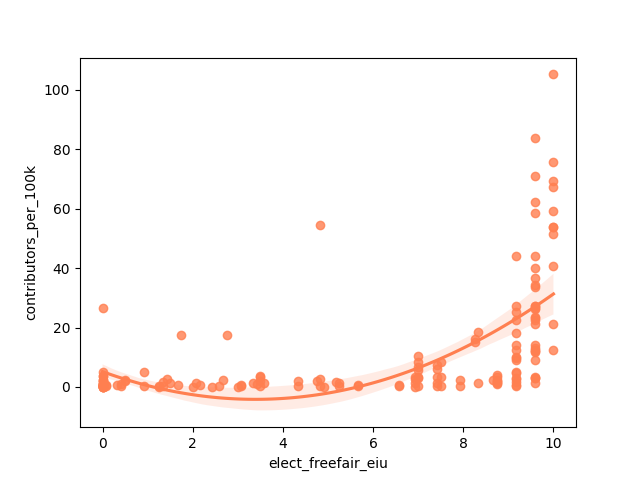
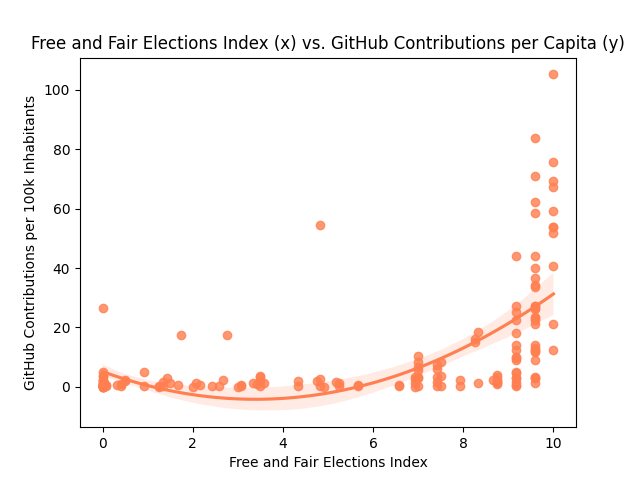
better plots, better pizza

Changed region(s): [[0.0312, 0.0625, 0.9688, 0.125], [0.0312, 0.1875, 0.0625, 0.8125], [0.3438, 0.9375, 0.6562, 1.0]]

diff --git a/src/data_calc.py b/src/data_calc.py
@@ -15,6 +15,9 @@ def mattplot( path ) :
            y='contributors_per_100k',
            x='democracy_eiu',
            color='cornflowerblue')
+    plt.ylabel('GitHub Contributions per 100k Inhabitants')
+    plt.xlabel('Overall Democracy Index')
+    plt.title('Democracy Index (x) vs. GitHub Contributions per Capita (y)')
     plt.savefig('../pngs/democracy_eiu')
 
     plt.figure()
@@ -23,6 +26,9 @@ def mattplot( path ) :
            y='contributors_per_100k',
            x='pol_part_eiu',
            color='mediumpurple')
+    plt.ylabel('GitHub Contributions per 100k Inhabitants')
+    plt.xlabel('Political Participation Index')
+    plt.title('Political Partitipation Index (x) vs. GitHub Contributions per Capita (y)')
     plt.savefig('../pngs/pol_part_eiu')
 
     plt.figure()
@@ -31,6 +37,9 @@ def mattplot( path ) :
            y='contributors_per_100k',
            x='dem_culture_eiu',
            color='palevioletred')
+    plt.ylabel('GitHub Contributions per 100k Inhabitants')
+    plt.xlabel('Democratic Culture Index')
+    plt.title('Democratic Culture Index (x) vs. GitHub Contributions per Capita (y)')
     plt.savefig('../pngs/dem_culture_eiu',)
 
     plt.figure()
@@ -39,6 +48,9 @@ def mattplot( path ) :
            y='contributors_per_100k',
            x='elect_freefair_eiu',
            color='coral')
+    plt.ylabel('GitHub Contributions per 100k Inhabitants')
+    plt.xlabel('Free and Fair Elections Index')
+    plt.title('Free and Fair Elections Index (x) vs. GitHub Contributions per Capita (y)')
     plt.savefig('../pngs/elect_freefair_eiu')
 
     plt.show()

diff --git a/src/test_regress.py b/src/test_regress.py
@@ -2,7 +2,7 @@ from sklearn.utils import shuffle
 import pandas as pd
 from sklearn.linear_model import LinearRegression
 
-def regress( path, n ) :
+def regress_performance( path, n ) :
 
     labels = ['democracy_eiu', 'elect_freefair_eiu', 'pol_part_eiu', 'dem_culture_eiu']
 
@@ -12,13 +12,17 @@ def regress( path, n ) :
             'dem_culture_eiu' : []
     }
 
+    df_orig = pd.read_parquet(path)
+
     for i in range(n) :
         #print("try #" + str(i))
-        df = pd.read_parquet( path )
-        df = shuffle( df )
+
+        df = shuffle( df_orig )
 
         df_train = df.sample( frac = 0.5 ).dropna()
         df_test = df.drop( df_train.index ).dropna()
+
+        print("\n[iteration #" + str(i) + "]")
 
         for t in labels :
             # train
@@ -36,9 +40,11 @@ def regress( path, n ) :
                   ":" +
                   str( model.score( x_test, y_test ) ) )
             '''
+            score = model.score( x_test, y_test )
 
-            res[t].append(model.score( x_test, y_test ))
+            res[t].append(score)
+            print(t + ": r2=" + str(score))
 
     for t in labels:
-        print("Average for " + t + ":" + str( sum(res[t]) / len(res[t]) ))
-
+        print("\n===============================================")
+        print("Average for " + t + ":\n" + str( sum(res[t]) / len(res[t]) ))

diff --git a/src/main.py b/src/main.py
@@ -1,8 +1,8 @@
 from data_cleanup import data_cleanup
 from data_calc import mattplot
-from test_regress import regress
+import test_regress
 
 # Main Execution Script
 data_cleanup()
 mattplot('../data/final.parquet')
-regress('../data/final.parquet', 1000)
+test_regress.regress_performance('../data/final.parquet', 1000)
